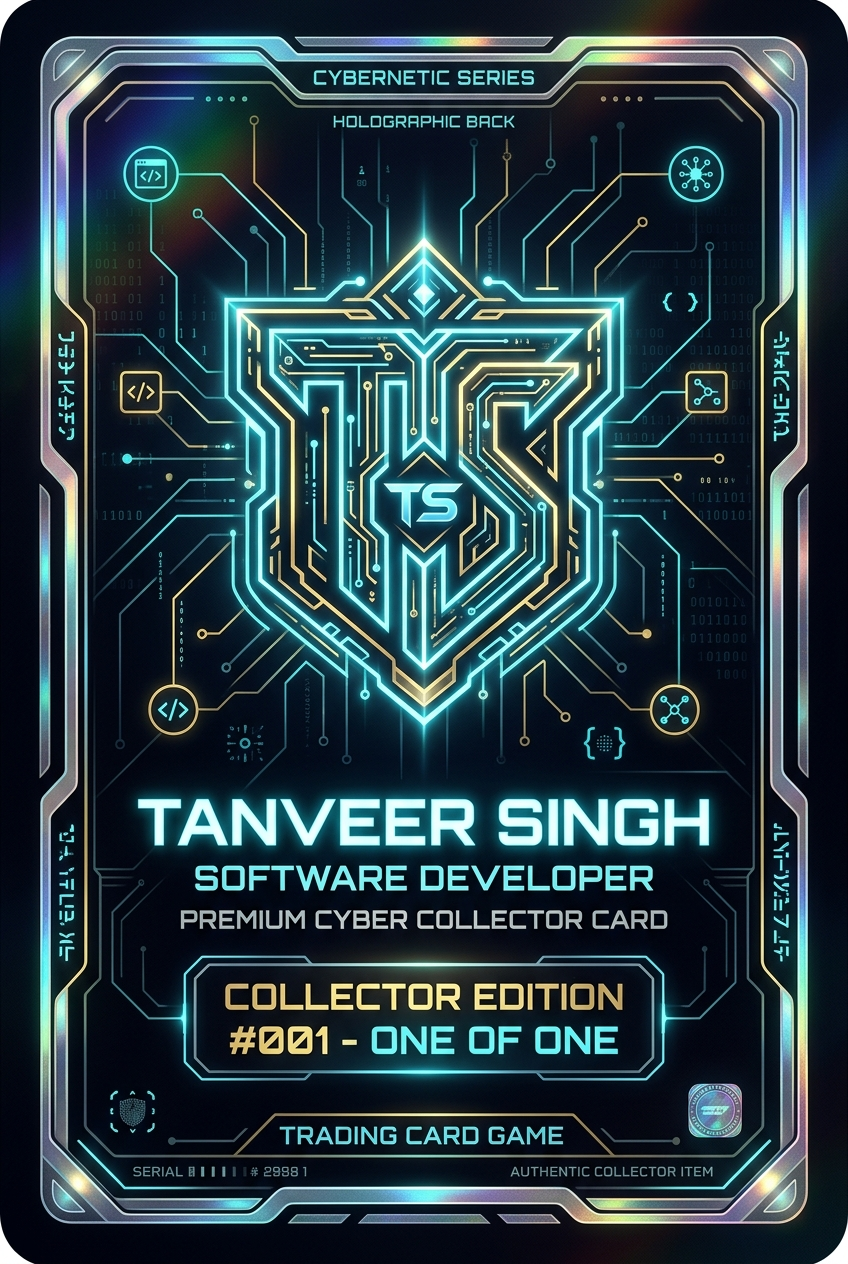
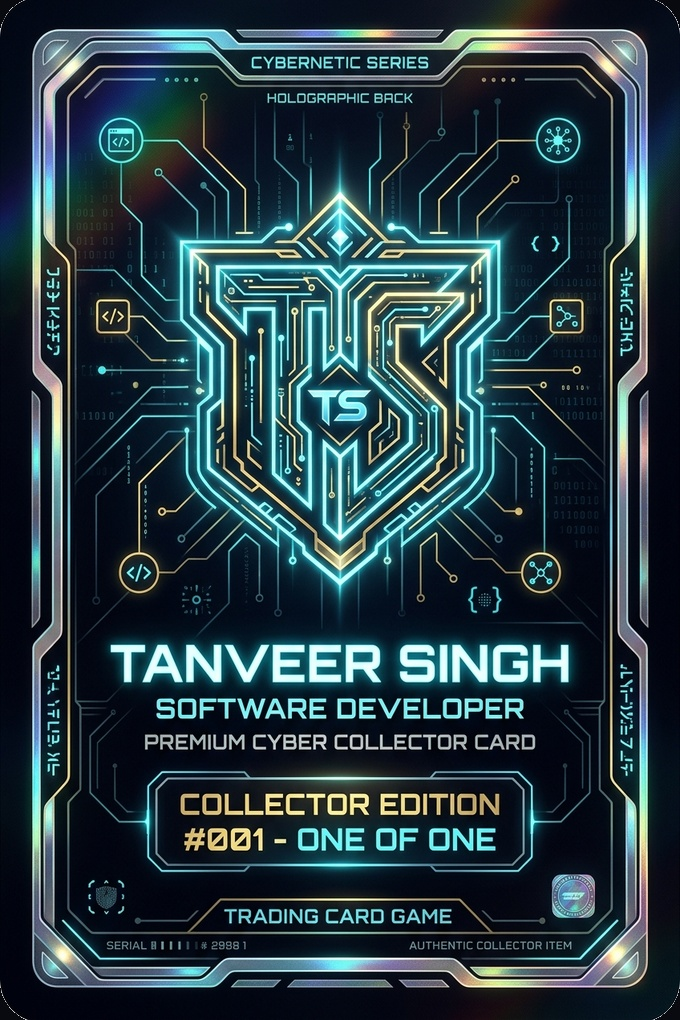
refactor: remove entrance animations from hero section and update holocard dimensions and styling

diff --git a/components/sections/HeroSection.tsx b/components/sections/HeroSection.tsx
@@ -48,12 +48,7 @@ export default function HeroSection({ onExplore }: HeroSectionProps) {
           </div>
 
           {/* Headline: Intro label HI, I'M + Large prominent MaskedHeading TANVEER SINGH */}
-          <motion.div
-            initial={reduced ? false : { opacity: 0, y: 24 }}
-            animate={{ opacity: 1, y: 0 }}
-            transition={{ duration: 0.85, delay: 0.2, ease: EASING.editorial }}
-            className="flex flex-col gap-0.5 w-full max-w-2xl overflow-visible"
-          >
+          <div className="flex flex-col gap-0.5 w-full max-w-2xl overflow-visible">
             <span className="font-label-caps text-[#cac6bf] text-sm sm:text-base md:text-lg font-semibold tracking-[0.25em] uppercase">
               HI, I&apos;M
             </span>
@@ -95,31 +90,15 @@ export default function HeroSection({ onExplore }: HeroSectionProps) {
                 }
               />
             </div>
-          </motion.div>
+          </div>
 
           {/* Supporting Text */}
-          <motion.p
-            initial={reduced ? false : { opacity: 0, y: 20 }}
-            animate={{ opacity: 1, y: 0 }}
-            transition={{
-              duration: 0.7,
-              delay: 0.72,
-              ease: EASING.editorial,
-            }}
-            className="font-body-lg text-[#cac6bf] max-w-lg text-lg md:text-xl leading-relaxed mt-0"
-          >
+          <p className="font-body-lg text-[#cac6bf] max-w-lg text-lg md:text-xl leading-relaxed mt-0">
             Software developer passionate about building scalable systems and intuitive experiences.
-          </motion.p>
+          </p>
 
           {/* CTA Button */}
-          <motion.button
-            initial={reduced ? false : { opacity: 0, y: 15 }}
-            animate={{ opacity: 1, y: 0 }}
-            transition={{
-              duration: 0.6,
-              delay: 0.88,
-              ease: EASING.editorial,
-            }}
+          <button
             onClick={onExplore}
             className="group flex items-center gap-4 w-fit mt-1 border-b border-subtle hover:border-[#F1F0EB] pb-2 transition-all cursor-pointer"
           >
@@ -129,28 +108,17 @@ export default function HeroSection({ onExplore }: HeroSectionProps) {
             <span className="material-symbols-outlined text-sm text-[#cac6bf] group-hover:text-[#F1F0EB] transition-transform duration-300 transform group-hover:translate-x-2">
               arrow_forward
             </span>
-          </motion.button>
+          </button>
         </div>
 
         {/* Right Side: Holographic Collector Card (HoloCard) */}
-        <motion.div
-          initial={reduced ? false : { opacity: 0, scale: 0.9 }}
-          animate={{ opacity: 1, scale: 1 }}
-          transition={{ duration: 1, delay: 0.4, ease: EASING.editorial }}
-          className="w-full lg:w-[52%] xl:w-[54%] relative flex items-center justify-center pointer-events-auto z-20 py-2"
-        >
+        <div className="w-full lg:w-[52%] xl:w-[54%] relative flex items-center justify-center pointer-events-auto z-20 py-2">
           <HeroCard />
-        </motion.div>
+        </div>
       </motion.div>
 
       {/* Social Links Bottom Left */}
-      <motion.div
-        initial={reduced ? false : { opacity: 0, y: 10 }}
-        animate={{ opacity: 1, y: 0 }}
-        transition={{ duration: 0.6, delay: 1.05, ease: EASING.editorial }}
-        className="absolute bottom-10 left-24 sm:left-28 md:left-36 lg:left-44 flex gap-8 text-[#cac6bf] z-20"
-
-      >
+      <div className="absolute bottom-10 left-24 sm:left-28 md:left-36 lg:left-44 flex gap-8 text-[#cac6bf] z-20">
         <a
           href="https://github.com/Tanveer1907"
           target="_blank"
@@ -176,7 +144,7 @@ export default function HeroSection({ onExplore }: HeroSectionProps) {
         >
           <span className="material-symbols-outlined text-2xl">mail</span>
         </a>
-      </motion.div>
+      </div>
 
       {/* Scroll Down Indicator Bottom Right */}
       <motion.div

diff --git a/components/ui/HoloCard.css b/components/ui/HoloCard.css
@@ -1,7 +1,7 @@
 .holo-card {
   --hc-w: 320px;
-  --hc-ratio: 0.716;
-  --hc-radius: 14px;
+  --hc-ratio: 0.667;
+  --hc-radius: 18px;
 
   position: relative;
   display: inline-block;
@@ -22,16 +22,21 @@
 }
 
 .holo-card[data-flippable]:focus-visible {
-  outline: 2px solid currentColor;
+  outline: 2px solid #39c3ef;
   outline-offset: 6px;
 }
 
 .holo-card__shadow {
   position: absolute;
-  inset: 10% 7% -4%;
+  inset: 6% 4% -6%;
   border-radius: var(--hc-radius);
-  background: rgba(0, 0, 0, 0.42);
-  filter: blur(26px);
+  background: radial-gradient(
+    ellipse at 50% 50%,
+    rgba(57, 195, 239, 0.28) 0%,
+    rgba(0, 0, 0, 0.7) 48%,
+    transparent 74%
+  );
+  filter: blur(28px);
   pointer-events: none;
   will-change: transform;
 }
@@ -51,6 +56,11 @@
   backface-visibility: hidden;
   -webkit-backface-visibility: hidden;
   transform: translate3d(0, 0, 0);
+  border: 1px solid rgba(255, 255, 255, 0.16);
+  box-shadow:
+    inset 0 0 0 1px rgba(255, 255, 255, 0.2),
+    inset 0 1px 2px rgba(255, 255, 255, 0.35),
+    inset 0 -1px 2px rgba(0, 0, 0, 0.5);
 }
 
 .holo-card__face--front {

diff --git a/components/ui/HoloCard.tsx b/components/ui/HoloCard.tsx
@@ -39,7 +39,7 @@ export interface HoloCardProps {
 }
 
 const PERSPECTIVE = 1100;
-const CARD_RATIO = 63 / 88;
+const CARD_RATIO = 680 / 1020;
 
 const VERTEX = `#version 300 es
 in vec2 position;
@@ -695,7 +695,10 @@ export default function HoloCard({
   };
 
   const toggle = () => {
-    if (flippable) setFlipped(value => !value);
+    if (flippable) {
+      setFlipped(value => !value);
+      wakeRef.current?.();
+    }
   };
 
   return (

diff --git a/components/ui/HeroCard.tsx b/components/ui/HeroCard.tsx
@@ -44,9 +44,9 @@ export default function HeroCard() {
           intensity={0}
           edgeSparkle={0}
           frame={0}
-          glare={0.3}
+          glare={0.35}
           width={cardWidth}
-          radius={20}
+          radius={18}
           tiltMax={15}
           hoverScale={1.04}
           idle={true}
